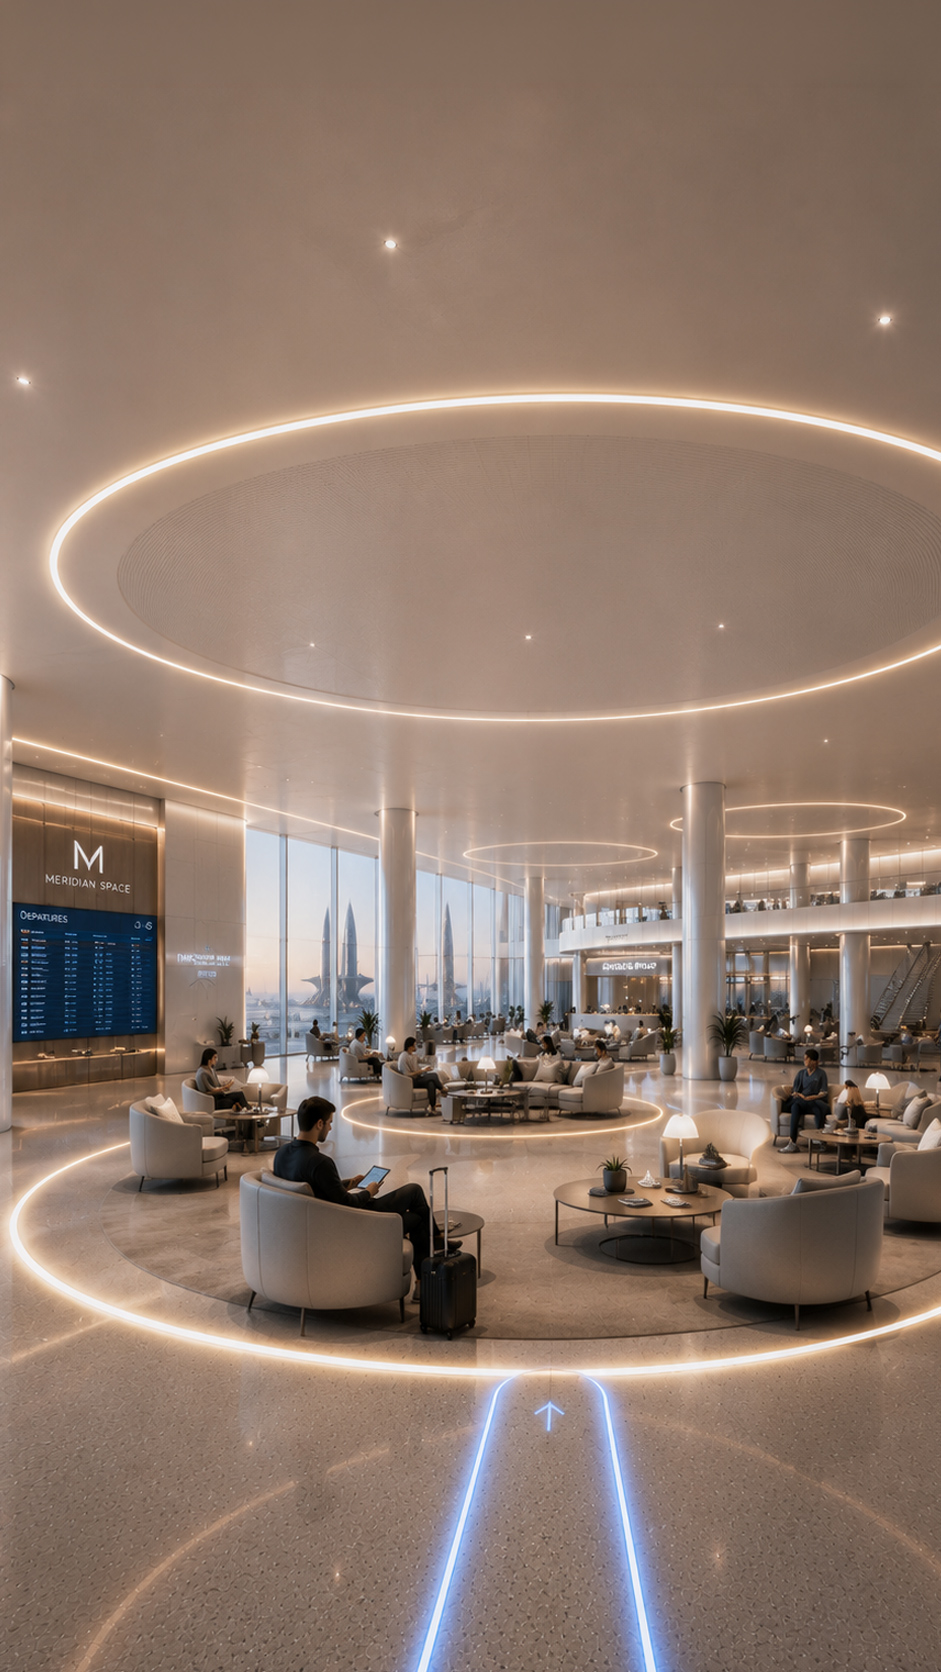
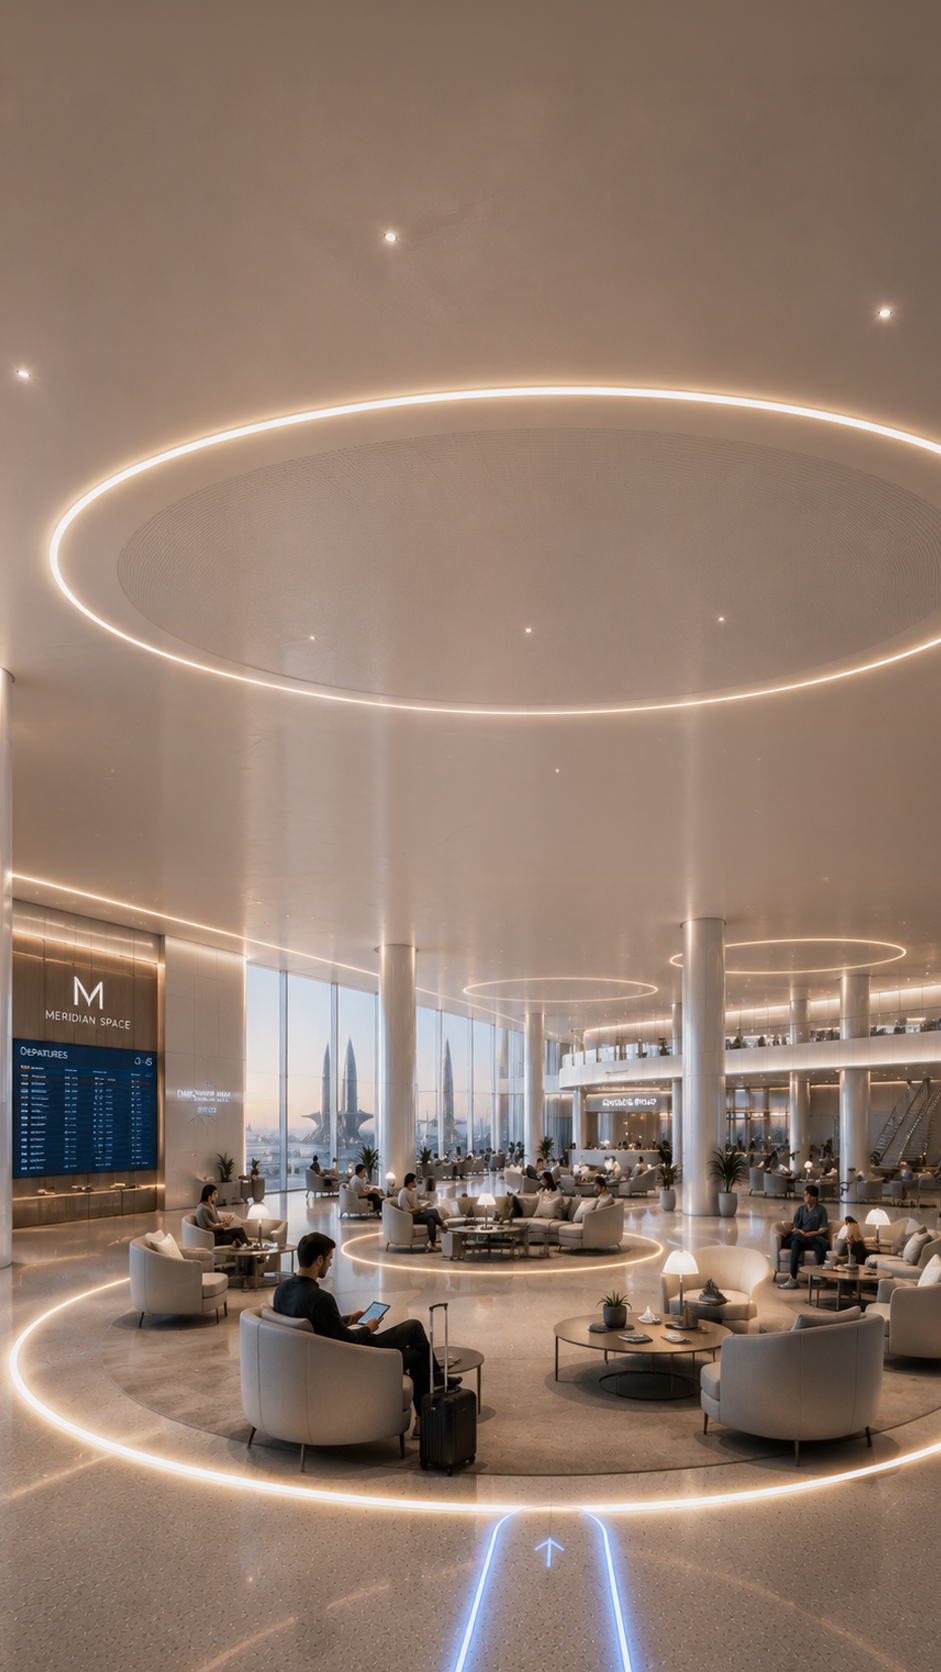
structureed locked, flow locked.

diff --git a/src/App.vue b/src/App.vue
@@ -10,6 +10,7 @@ import checkinBgImage from '@/images/checkin_bg.jpg'
 import securityBgImage from '@/images/security_bg.jpg'
 import loungeBgImage from '@/images/lounge_bg.jpg'
 import boardingBgImage from '@/images/boarding_bg.jpg'
+import onboardBgImage from '@/images/onboard_bg.jpg'
 
 const route = useRoute()
 const router = useRouter()
@@ -19,19 +20,29 @@ const nameInput = ref('')
 const isWelcomeJourneyView = computed(() => route.name === 'journey' && activeStage.value.kind === 'welcome')
 const isLobbyCircleView = computed(() => route.name === 'journey' && journeyState.value === 'lobbyCircle')
 const isCheckInReadyView = computed(() => route.name === 'journey' && journeyState.value === 'checkInReady')
+const isSynchronizingLobbyView = computed(() => route.name === 'journey' && journeyState.value === 'synchronizingLobby')
+const isLobbyLikeView = computed(() => isLobbyCircleView.value || isCheckInReadyView.value || isSynchronizingLobbyView.value)
+const isLobbyBgImageView = computed(() => isLobbyCircleView.value || isCheckInReadyView.value)
 const isCheckInProcessingView = computed(() => route.name === 'journey' && journeyState.value === 'checkInProcessing')
-const isCheckInInsideCircleView = computed(() => route.name === 'journey' && journeyState.value === 'checkInCircle' && !checkInComplete.value)
-const isCheckInBackgroundView = computed(() => isCheckInProcessingView.value || isCheckInInsideCircleView.value)
+const isCheckInInsideCircleView = computed(() => route.name === 'journey' && journeyState.value === 'checkInCircle')
+const isSynchronizingCheckInView = computed(() => route.name === 'journey' && journeyState.value === 'synchronizingCheckIn')
+const isCheckInBackgroundView = computed(() => (isCheckInProcessingView.value || isCheckInInsideCircleView.value) && !checkInComplete.value)
+const isCheckInBgPaddingView = computed(() => isCheckInProcessingView.value || isCheckInInsideCircleView.value || isSynchronizingCheckInView.value)
 const isSecurityProcessingView = computed(() => route.name === 'journey' && journeyState.value === 'securityProcessing')
-const isSecurityInsideCircleView = computed(() => route.name === 'journey' && journeyState.value === 'securityCircle' && !securityComplete.value)
-const isSecurityBackgroundView = computed(() => isSecurityProcessingView.value || isSecurityInsideCircleView.value)
+const isSecurityInsideCircleView = computed(() => route.name === 'journey' && journeyState.value === 'securityCircle')
+const isSynchronizingSecurityView = computed(() => route.name === 'journey' && journeyState.value === 'synchronizingSecurity')
+const isSecurityBackgroundView = computed(() => (isSecurityProcessingView.value || isSecurityInsideCircleView.value) && !securityComplete.value)
+const isSecurityBgPaddingView = computed(() => isSecurityProcessingView.value || isSecurityInsideCircleView.value || isSynchronizingSecurityView.value)
 const isLoungeCircleView = computed(() => route.name === 'journey' && journeyState.value === 'loungeCircle')
 const isNowBoardingView = computed(() => route.name === 'journey' && journeyState.value === 'nowBoarding')
-const isLoungeBackgroundView = computed(() => isLoungeCircleView.value || isNowBoardingView.value)
+const isSynchronizingLoungeView = computed(() => route.name === 'journey' && journeyState.value === 'synchronizingLounge')
+const isLoungeBgPaddingView = computed(() => isLoungeCircleView.value || isNowBoardingView.value || isSynchronizingLoungeView.value)
 const isBoardingCircleView = computed(() => route.name === 'journey' && journeyState.value === 'boardingCircle')
 const isBoardingProcessingView = computed(() => route.name === 'journey' && journeyState.value === 'boardingProcessing')
+const isSynchronizingBoardingView = computed(() => route.name === 'journey' && journeyState.value === 'synchronizingBoarding')
 const isBoardingBackgroundView = computed(() => (isBoardingCircleView.value || isBoardingProcessingView.value) && !boardingPassGenerated.value)
-const isLobbyLikeView = computed(() => isLobbyCircleView.value || isCheckInReadyView.value)
+const isBoardingBgPaddingView = computed(() => (isBoardingCircleView.value || isBoardingProcessingView.value || isSynchronizingBoardingView.value) && !boardingPassGenerated.value)
+const isOnboardView = computed(() => route.name === 'journey' && journeyState.value === 'onboard')
 const needsPersonalization = computed(() => passengerFirstName.value.trim().length === 0)
 const canContinue = computed(() => nameInput.value.trim().length > 0)
 
@@ -87,7 +98,7 @@ function continueWithName() {
               </div>
             </section>
 
-            <section v-else :class="['shell-content', { 'shell-content--welcome': isWelcomeJourneyView, 'shell-content--lobby': isLobbyCircleView || isCheckInReadyView, 'shell-content--checkin': isCheckInBackgroundView, 'shell-content--security': isSecurityBackgroundView, 'shell-content--lounge': isLoungeBackgroundView, 'shell-content--boarding': isBoardingBackgroundView }]" :style="isWelcomeJourneyView ? { backgroundImage: `url(${heroImage})` } : isLobbyCircleView || isCheckInReadyView ? { backgroundImage: `url(${lobbyBgImage})` } : isCheckInBackgroundView ? { backgroundImage: `url(${checkinBgImage})` } : isSecurityBackgroundView ? { backgroundImage: `url(${securityBgImage})` } : isLoungeBackgroundView ? { backgroundImage: `url(${loungeBgImage})` } : isBoardingBackgroundView ? { backgroundImage: `url(${boardingBgImage})` } : {}">
+            <section v-else :class="['shell-content', { 'shell-content--welcome': isWelcomeJourneyView, 'shell-content--lobby': isLobbyLikeView, 'shell-content--checkin': isCheckInBgPaddingView, 'shell-content--security': isSecurityBgPaddingView, 'shell-content--lounge': isLoungeBgPaddingView, 'shell-content--boarding': isBoardingBgPaddingView, 'shell-content--onboard': isOnboardView }]" :style="isWelcomeJourneyView ? { backgroundImage: `url(${heroImage})` } : isLobbyBgImageView ? { backgroundImage: `url(${lobbyBgImage})` } : isCheckInBackgroundView ? { backgroundImage: `url(${checkinBgImage})` } : isSecurityBackgroundView ? { backgroundImage: `url(${securityBgImage})` } : isLoungeCircleView || isNowBoardingView ? { backgroundImage: `url(${loungeBgImage})` } : isBoardingBackgroundView ? { backgroundImage: `url(${boardingBgImage})` } : isOnboardView ? { backgroundImage: `url(${onboardBgImage})` } : {}">
               <RouterView />
             </section>
           </section>
@@ -101,7 +112,6 @@ function continueWithName() {
               :disabled="isWelcomeJourneyView"
               @click="resetJourney"
             >
-              <FeatherIcon name="rotate-ccw" size="16" />
               <span>Reset Experience</span>
             </v-btn>
           </div>
@@ -399,6 +409,34 @@ function continueWithName() {
 }
 
 .shell-content--boarding > * {
+  position: relative;
+  z-index: 1;
+}
+
+.shell-content--onboard {
+  flex: 1;
+  height: 100%;
+  padding: 0 16px;
+  overflow: hidden;
+  background-size: cover;
+  background-position: center;
+  background-repeat: no-repeat;
+  position: relative;
+}
+
+.shell-content--onboard::before {
+  content: '';
+  position: absolute;
+  top: 0;
+  left: 0;
+  right: 0;
+  bottom: 0;
+  background: rgba(9, 15, 45, 0.80);
+  pointer-events: none;
+  z-index: 0;
+}
+
+.shell-content--onboard > * {
   position: relative;
   z-index: 1;
 }

diff --git a/src/views/JourneyView.vue b/src/views/JourneyView.vue
@@ -185,7 +185,7 @@ const primaryActionLabel = computed(() => {
   }
 
   if (isBoardingPassShowing.value) {
-    return 'Continue'
+    return null
   }
 
   if (routeInstruction.value) {
@@ -196,7 +196,7 @@ const primaryActionLabel = computed(() => {
 })
 
 const showBottomAction = computed(
-  () => !isWelcome.value && !isLobbyCircle.value && !isCheckInReady.value && !isProcessing.value && !isBoardingProcessing.value && !!primaryActionLabel.value,
+  () => !isWelcome.value && !isLobbyCircle.value && !isCheckInReady.value && !isProcessing.value && !isBoardingProcessing.value && !isBoardingPassShowing.value && !isBoardingCompletionShowing.value && !!primaryActionLabel.value,
 )
 
 // Reset boarding completion flag when leaving boarding circle
@@ -472,8 +472,8 @@ watch(() => isBoardingCircle.value, (newVal) => {
     </div>
 
     <div v-if="isBoardingCompletionShowing" class="lobby-outside">
-      <p class="lobby-guidance">
-        The boarding process is complete.
+      <p class="lobby-guidance boarding-completion-title">
+        <span class="boarding-completion-emphasis">The boarding process is complete.</span>
       </p>
       <p class="lobby-guidance">
         Thank you for choosing Meridian Space.
@@ -492,30 +492,14 @@ watch(() => isBoardingCircle.value, (newVal) => {
     </div>
 
     <div v-if="isOnboard" class="lobby-outside">
-      <div class="icon-wrap icon-wrap--outside">
-        <FeatherIcon :name="activeStage.icon" size="54" color="#f7af43" />
-      </div>
       <h2 class="lobby-location">Welcome aboard.</h2>
       <p class="mission-flight">Flight M102</p>
-      
-      <div class="mission-card">
-        <div class="mission-details">
-          <div class="mission-field">
-            <p class="mission-label">Seat</p>
-            <p class="mission-value">14A</p>
-          </div>
-          <div class="mission-field">
-            <p class="mission-label">Mission</p>
-            <p class="mission-value">LEO-1</p>
-          </div>
-        </div>
-      </div>
       
       <p class="completion-message">Final launch preparations underway.</p>
     </div>
 
     <section
-      v-if="!isCheckInReadyScreen && !isSecurityReadyScreen && !isLoungeReadyScreen && !isLoungeCountdown && !isBoardingCircleReady && !isBoardingProcessing && !isBoardingPassShowing && !isLobbyCircle && !isCheckInReady && !isSynchronizingLobby && !isSynchronizingCheckIn && !isSynchronizingSecurity && !isSynchronizingLounge && !isSynchronizingBoarding"
+      v-if="!isCheckInReadyScreen && !isSecurityReadyScreen && !isLoungeReadyScreen && !isLoungeCountdown && !isBoardingCircleReady && !isBoardingProcessing && !isBoardingPassShowing && !isBoardingCompletionShowing && !isLobbyCircle && !isCheckInReady && !isSynchronizingLobby && !isSynchronizingCheckIn && !isSynchronizingSecurity && !isSynchronizingLounge && !isSynchronizingBoarding"
       :class="[
         'stage-panel',
         {
@@ -645,10 +629,12 @@ watch(() => isBoardingCircle.value, (newVal) => {
 
 <style scoped>
 .journey-view {
-  display: flex;
-  flex-direction: column;
+  display: grid;
+  grid-template-rows: auto 1fr;
   gap: 20px;
   padding-bottom: 24px;
+  flex: 1;
+  height: 100%;
 }
 
 .journey-view--welcome {
@@ -678,6 +664,8 @@ watch(() => isBoardingCircle.value, (newVal) => {
   padding-top: 28px;
   padding-bottom: 48px;
   flex-shrink: 0;
+  width: 100%;
+  background: transparent;
 }
 
 .route-line {
@@ -815,7 +803,7 @@ watch(() => isBoardingCircle.value, (newVal) => {
   justify-content: center;
   background: rgba(241, 201, 138, 0.12);
   border: 1.5px solid rgba(241, 201, 138, 0.25);
-  margin-bottom: 16px;
+  margin-bottom: 8px;
   transition: all 0.3s ease;
 }
 
@@ -836,6 +824,7 @@ watch(() => isBoardingCircle.value, (newVal) => {
   text-align: center;
   margin: 2px 0 2px;
   width: 100%;
+  flex: 1;
 }
 
 .lobby-outside--checkin-complete {
@@ -875,9 +864,10 @@ watch(() => isBoardingCircle.value, (newVal) => {
 }
 
 .lobby-location--boarding {
-  font-size: 1.7rem;
+  font-size: 2.1rem;
   font-weight: 500;
   letter-spacing: 0.03em;
+  margin-bottom: 24px;
 }
 
 .lobby-you-are {
@@ -1110,6 +1100,12 @@ watch(() => isBoardingCircle.value, (newVal) => {
   color: #f7af43;
 }
 
+.boarding-completion-emphasis {
+  font-weight: 700;
+  color: #f7af43;
+  font-size: 1.2rem;
+}
+
 .welcome-instruction-card {
   max-width: 320px;
   padding: 20px 16px;
@@ -1340,6 +1336,7 @@ watch(() => isBoardingCircle.value, (newVal) => {
 .lobby-outside--sync {
   min-height: 240px;
   justify-content: center;
+  flex: 1;
 }
 
 .sync-icon-wrap {
@@ -1440,7 +1437,7 @@ watch(() => isBoardingCircle.value, (newVal) => {
   font-size: 1rem;
   font-weight: 500;
   color: #f7af43;
-  margin: 12px 0 24px;
+  margin: 8px 0 12px;
   text-align: center;
   letter-spacing: 0.02em;
 }

diff --git a/src/composables/useFlightState.ts b/src/composables/useFlightState.ts
@@ -104,7 +104,7 @@ const stages: JourneyStage[] = [
     id: 4,
     kind: 'journey',
     routeLabel: 'Lounge',
-    icon: 'home',
+    icon: 'arrow-right',
     locationLead: '',
     location: 'Departure Lounge Circle C4',
     destination: '',